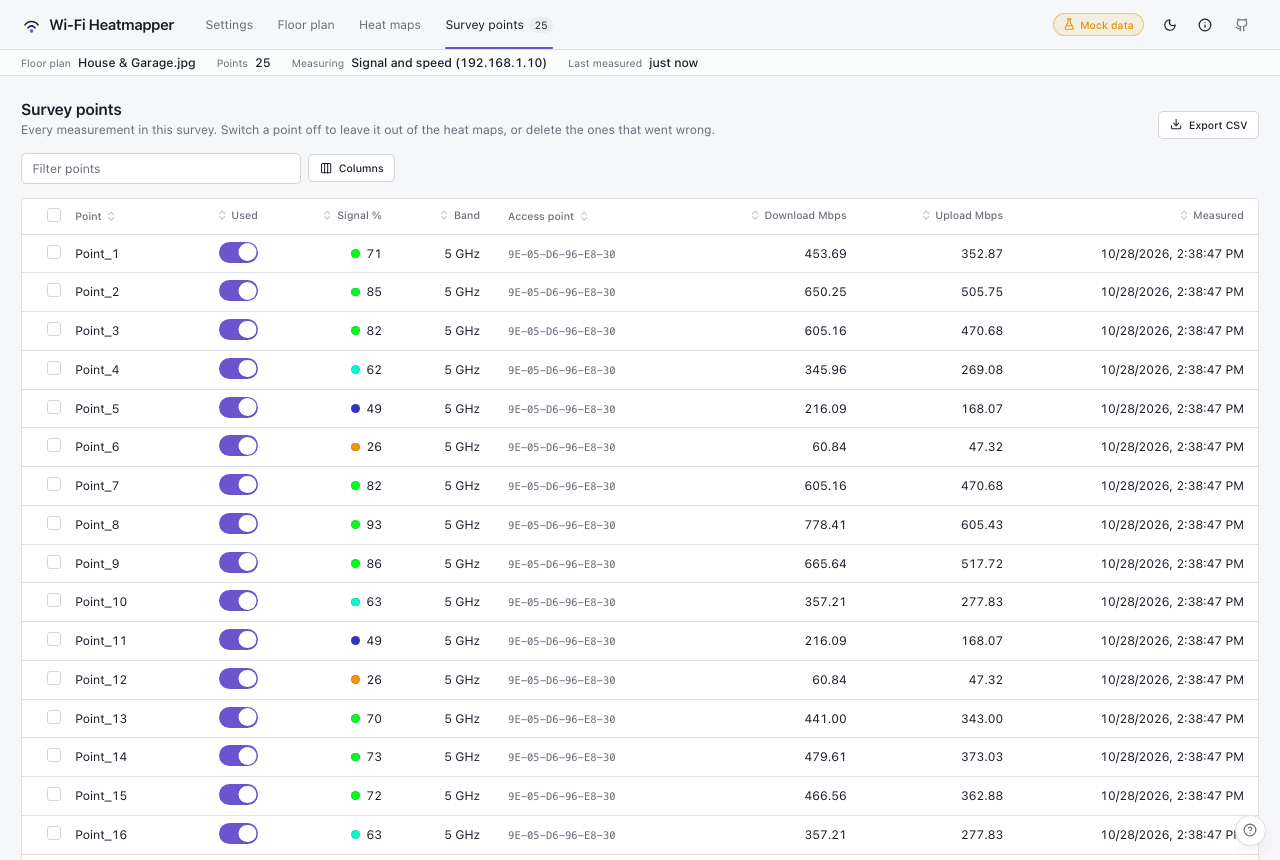
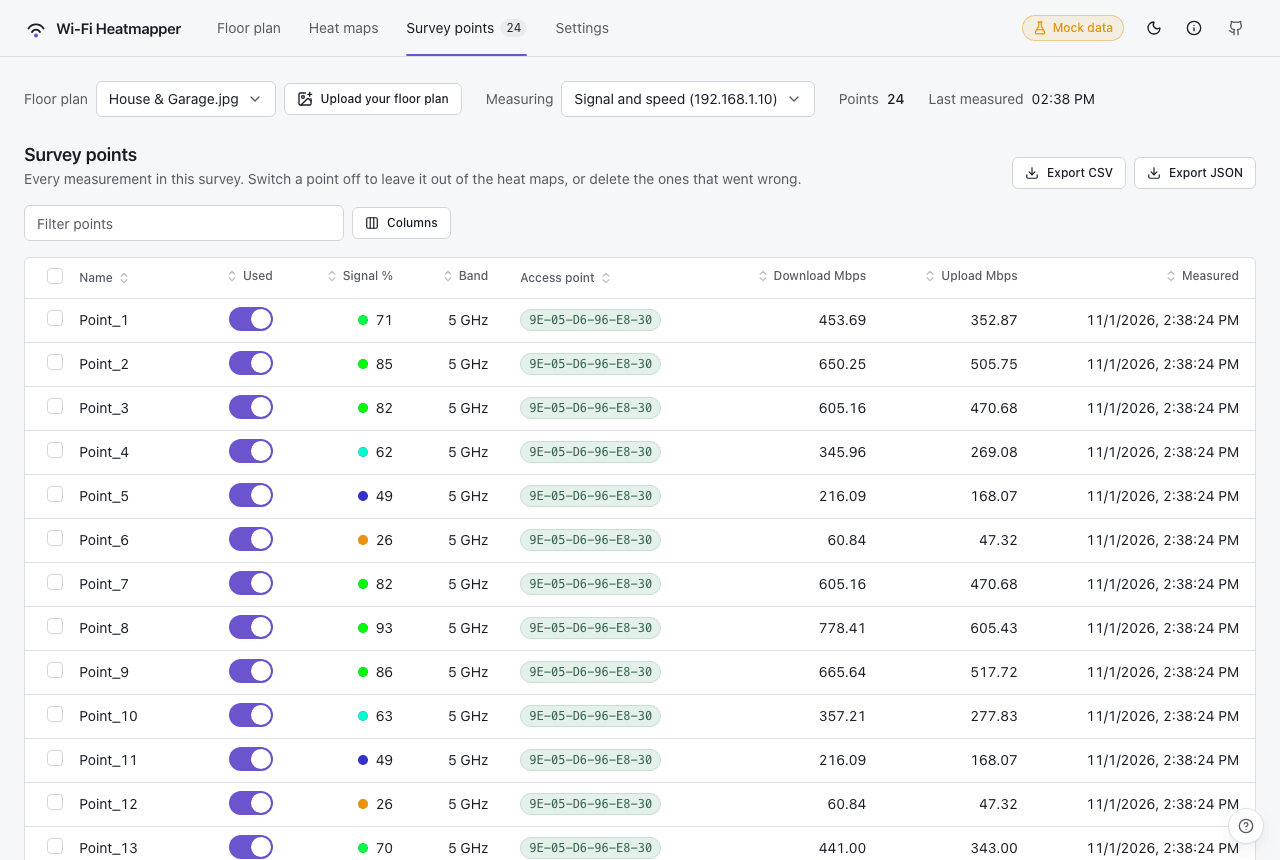
Guide: survey bar, step hints, colours on Heat maps, new screenshots (#144)

diff --git a/docs/guide/using-the-app.md b/docs/guide/using-the-app.md
@@ -6,11 +6,22 @@ order: 3
 
 # Using the app
 
-wifi-heatmapper has four sections, shown as tabs in the header. The strip
-under the header always shows which floor plan you are working on, how many
-points it has, and what it measures: **Signal only**, or **Signal and speed**
-with the server's address. In a speed survey it also warns when no server is
-set or the newest point was saved without speed.
+wifi-heatmapper has four sections, shown as tabs in the header: **Floor
+plan** (where the app opens), **Heat maps**, **Survey points** and
+**Settings**.
+
+The bar above every tab shows the survey you are working on:
+
+* **Floor plan** – the image you click on. Pick a saved one from the menu, or
+  **Upload your floor plan** (PNG, JPEG or WebP; a photo of a sketch works
+  fine). Each floor plan keeps its own survey in
+  `data/surveys/<name>.json`. The app starts with a blank grid you can
+  measure on straight away.
+* **Measuring** – **Signal only** or **Signal and speed** (with the speed test
+  server's address). Choosing speed without a server set takes you to
+  Settings to enter one.
+* **Points** and when the last one was measured. In a speed survey a warning
+  appears when no server is set or the newest point was saved without speed.
 
 The header also has a light/dark switch and an "i" button that opens the
 About dialog with the version, OS and iperf3 details. The **?** in the
@@ -18,17 +29,24 @@ bottom-right corner opens the guide for the tab you are on, what's new, and
 **Report a problem**, which fills in a bug report for you (see the
 [FAQ](faq.md#something-went-wrong-how-do-i-report-it)).
 
-The first time you open the app a short welcome message explains the
-workflow. "Got it" hides it for good; the About dialog can show it again.
+There is no separate tutorial: a hint on the floor plan says what to do
+next. Click where you are standing, then walk to another room and click
+again, and after a few spots it points you to the heat maps. It disappears
+once the survey has a dozen points. In the desktop app on macOS, **About
+WiFi Heatmapper** in the app menu opens the same About dialog.
 
 ## Settings
 
 ![Settings](../images/settings.png)
 
-* **Floor plan** – the image you click on. Choose one of the bundled plans or
-  upload a PNG, JPEG or WebP. Each floor plan keeps its own survey in
-  `data/surveys/<name>.json`. The trash button deletes the image and its
-  survey.
+Settings has three parts: **Measurement**, **This survey**, and an
+**Advanced** group (access point names, usage counts). The heat map colours
+are on the [Heat maps](#heat-maps) tab.
+
+* **Survey file** – where this floor plan's survey is saved, with
+  **Download** for a copy.
+* **Delete this floor plan** – removes the image and its survey, after
+  asking.
 * **Settings from another survey** – **Copy settings from…** copies settings
   of another floor plan's survey into this one. Pick the survey, then tick
   what to copy:
@@ -69,7 +87,9 @@ workflow. "Got it" hides it for good; the About dialog can show it again.
     (pipes, `;`, redirects) is replaced by the defaults.
 * **sudo password** – needed only where reading the signal needs it: on
   macOS without the Wi-Fi helper (running from source) and on Linux when
-  `iw` is refused. The app's server holds it in memory for as long as the
+  `iw` is refused. You don't have to set it up front: when a measurement
+  needs it, the measurement panel asks for it and measures the same spot
+  again. The app's server holds it in memory for as long as the
   app runs, so measurements an [AI agent](mcp.md) starts can use it too. It
   is never written to disk, never sent back to the page, and gone when the
   app restarts; emptying the field forgets it. Not shown on Windows, in
@@ -80,8 +100,6 @@ workflow. "Got it" hides it for good; the About dialog can show it again.
   address with `*` (for example `aa:bb:cc:dd:ee:*`) to name every BSSID that
   starts with it, such as the per-band BSSIDs of one access point. An exact
   MAC address wins over a prefix, and a longer prefix wins over a shorter one.
-* **Heat map colours** – the colour stops for signal strength (0% = -100 dBm,
-  100% = -40 dBm) and the opacity range of the overlay.
 * **Usage counts** – turns the anonymous usage counts (installs, app starts,
   number of measurements) on or off for this computer, shows the exact event
   that is sent and when the last one went out, and says why they are off if
@@ -92,7 +110,12 @@ workflow. "Got it" hides it for good; the About dialog can show it again.
 
 ![Floor plan](../images/floorplan.png)
 
-Stand where you want to measure and click that spot. A pulsing dot marks the
+Stand where you want to measure and click that spot. On macOS, if the Wi-Fi
+helper can't see network names yet, a note above the plan offers **Allow
+Location access**: macOS shares the network name and access point only with
+apps that have Location access (your location itself is not used).
+
+A pulsing dot marks the
 spot while the measurement runs; the panel in the corner shows progress and
 has a Cancel button. In a signal-only survey it shows the signal and "Speed:
 not measured (signal only)"; with speed it shows download / upload (and the
@@ -184,6 +207,10 @@ values, so lower jitter, packet loss and retransmits are better even though
 they appear toward the red end. Turn off the fixed scale to restore automatic
 scaling. Your saved bounds are retained while off, including across reloads;
 turning it on again restores them rather than freezing a new automatic range.
+
+**Colours and opacity** opens the colour stops for signal strength (0% =
+-100 dBm, 100% = -40 dBm) and how much the overlay covers the floor plan at
+the strongest and weakest signal.
 
 **Radius** controls how far each point's influence reaches. It starts at an
 automatic value based on how spread out your points are; drag it until

diff --git a/docs/guide/getting-started.md b/docs/guide/getting-started.md
@@ -56,11 +56,14 @@ setup.
 
 ## Your first survey
 
-1. **Settings.** Pick the bundled floor plan or upload your own image. A
-   photo of a pencil sketch is fine; it does not need to be to scale (see the
-   [FAQ](faq.md#how-do-i-make-a-floor-plan)). Leave **What to measure** at
-   **Signal only**, or [set up speed tests](throughput.md) first.
-2. **Floor plan.** Stand somewhere, click that spot. The app measures the
+The app opens on the **Floor plan** tab with a blank grid, ready to measure.
+
+1. **Your floor plan.** Click **Upload your floor plan** at the top, or just
+   measure on the blank grid to try it. A photo of a pencil sketch is fine;
+   it does not need to be to scale (see the
+   [FAQ](faq.md#how-do-i-make-a-floor-plan)). **Measuring** starts at
+   **Signal only**; to measure speed too, [set up speed tests](throughput.md).
+2. **Measure.** Stand somewhere, click that spot. The app measures the
    signal (and speed, if the survey measures it) and drops a coloured dot
    there. Do this in every room, twice in big ones, and near the outer walls.
 3. **Heat maps.** Drag the radius until neighbouring spots merge into one
@@ -68,10 +71,11 @@ setup.
 4. **Survey points.** Check, switch off or delete individual measurements,
    or export everything as CSV.
 
-**A second floor (or house)?** Upload its floor plan in Settings. The new
+**A second floor (or house)?** Upload its floor plan at the top of the page. The new
 survey starts with the speed settings of the one you used last, so the
 speed test server is already filled in. To bring over access point names or
-the heat map look too, use **Copy settings from…** under **Floor plan**.
+the heat map look too, use **Copy settings from…** in Settings, under
+**This survey**.
 
 ![Signal strength heat map](../images/heatmap.jpg)
 

diff --git a/docs/guide/throughput.md b/docs/guide/throughput.md
@@ -59,8 +59,8 @@ On Windows, running from source, you may need to add iperf3's folder to
 The signal is always saved. If iperf3 is not installed on this laptop, no
 server is set, or the server does not answer, the app skips the speed test,
 saves the signal reading, and says so: the panel in the corner shows **Saved
-without speed** with the reason instead of a green tick, and the strip under
-the header warns that the newest point has no speed. The same happens if a
+without speed** with the reason instead of a green tick, and the bar above
+the tabs' content warns that the newest point has no speed. The same happens if a
 test fails part way, for example because the server is busy with another
 test. This works the same on macOS, Windows and Linux.
 

diff --git a/docs/guide/install.md b/docs/guide/install.md
@@ -56,7 +56,8 @@ You will have to do this again after each update, for the same reason.
 ### Location access
 
 macOS only tells apps the name of your Wi-Fi network if they have Location
-access. In the app's Settings tab, click **Allow Location access**; macOS
+access. Above the floor plan (or in Settings), click **Allow Location
+access**; macOS
 asks whether **WiFi Heatmapper Helper** may use your location. Click
 **Allow**. The helper is the small part of the app that reads
 the Wi-Fi signal. It never looks up where you are.
